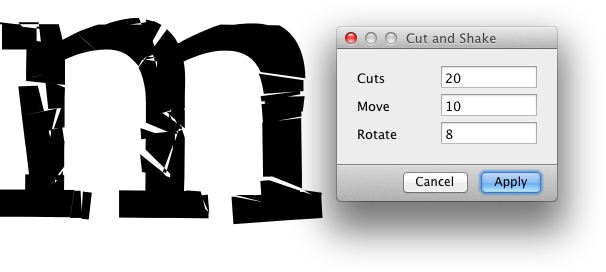
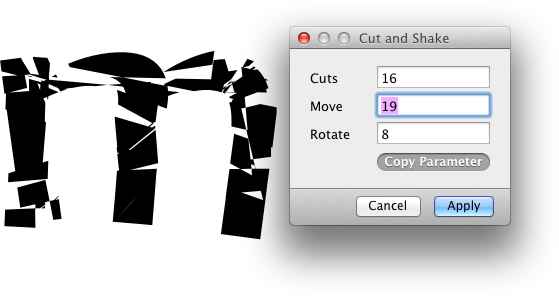
Added Copy Parameter button
Can now copy a corresponding Custom Parameter into the clipboard, for
pasting into an instance later.

diff --git a/CutAndShake.glyphsFilter/Contents/Resources/CutAndShake.py b/CutAndShake.glyphsFilter/Contents/Resources/CutAndShake.py
@@ -87,6 +87,15 @@ class GlyphsFilterCutAndShake ( GSFilterPlugin ):
 		except Exception as e:
 			self.logToConsole( "setup: %s" % str(e) )
 	
+	def returnCopyString( self ):
+		"""Returns the Custom Parameter as string ready for the pasteboard."""
+		try:
+			clipboardString = '(\n    {\n        Filter = "GlyphsFilterCutAndShake;%i;%.1f;%.1f";\n    }\n)\n' % ( self.numberOfCuts, self.maxMove, self.maxRotate )
+			return clipboardString
+		except Exception as e:
+			self.logToConsole( "returnCopyString: %s" % str(e) )
+			return False
+	
 	def setDefaultFloatValue( self, userDataKey, defaultValue, FontMaster ):
 		"""Returns either the stored or default value for the given userDataKey."""
 		try:
@@ -110,7 +119,18 @@ class GlyphsFilterCutAndShake ( GSFilterPlugin ):
 			return defaultValue
 	
 	@objc.IBAction
-	def setNumberOfCutsValue_( self ,sender ):
+	def setClipboard_( self, sender ):
+		"""Sets the contents of the clipboard to myText."""
+		try:
+			myText = self.returnCopyString()
+			myClipboard = NSPasteboard.generalPasteboard()
+			myClipboard.declareTypes_owner_( [NSStringPboardType], None )
+			myClipboard.setString_forType_( myText, NSStringPboardType )
+		except Exception as e:
+			self.logToConsole( "setClipboard: %s" % str(e) )
+	
+	@objc.IBAction
+	def setNumberOfCutsValue_( self, sender ):
 		try:
 			numberOfCuts = sender.floatValue()
 			if numberOfCuts != self.numberOfCuts:

diff --git a/README.md b/README.md
@@ -27,6 +27,8 @@ Alternatively, you can also use it as a custom parameter in an instance:
 	Property: Filter
 	Value: GlyphsFilterCutAndShake;<Number of cuts>;<maximum move in units>;<maximum rotation in degrees>;
 
+If you do not feel like typing it, you can click the *Copy Parameter* button, which puts the custom parameter with the current dialog settings in the clipboard. You can then paste it into an instance parameter field.
+
 ### License
 
 Copyright 2014 Rainer Erich Scheichelbauer (@mekkablue).
